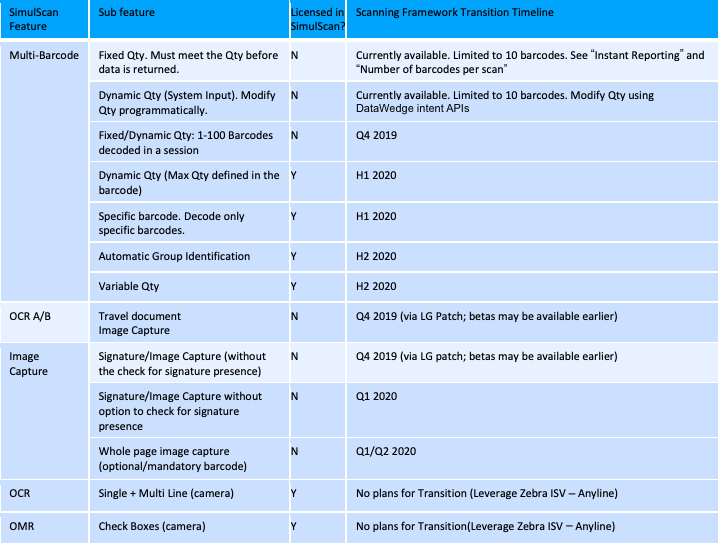
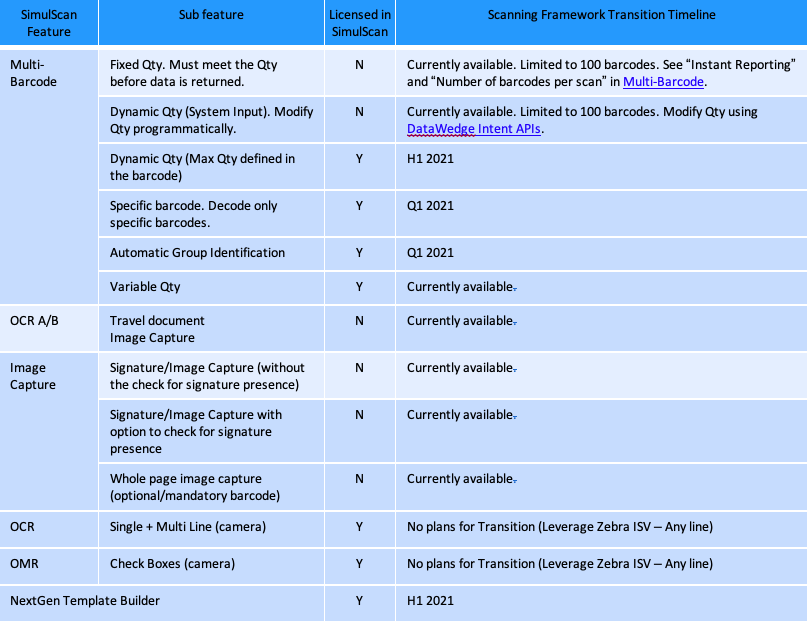
[unplanned] SimulScan 1.1 more alert updates, per eng

diff --git a/simulscan/1-1/guide/alert/index.html b/simulscan/1-1/guide/alert/index.html
@@ -191,16 +191,18 @@
                                 <div class="service-box wow fadeInRight">
                                     <div class="">
 
-                                        <p></p><div class="alert alert-danger alert-dismissible fade in" role="alert"> <button type="button" class="close" data-dismiss="alert" aria-label="Close"><span aria-hidden="true">×</span></button> <h4 id="simulscan-features-being-integrated" class="anchor"><a class="heading-anchor" href="#simulscan-features-being-integrated"><span></span></a>SimulScan Features Being Integrated</h4> <p><b>The most important SimulScan capabilities, including multi-barcode scanning and OCR A/B capture for travel documentation, are being migrated to the internal scanning framework that runs on all Zebra devices</b>. Once complete, capabilities formerly available only through SimulScan will be accessible through DataWedge and Android intent APIs. Therefore, Zebra strongly recommends that partners develop a migration plan to DataWedge for all applications that currently use SimulScan.</p><p><b>Key migration dates</b>:
+                                        <p></p><div class="alert alert-danger alert-dismissible fade in" role="alert"> <button type="button" class="close" data-dismiss="alert" aria-label="Close"><span aria-hidden="true">×</span></button> <h4 id="simulscan-features-being-integrated" class="anchor"><a class="heading-anchor" href="#simulscan-features-being-integrated"><span></span></a>SimulScan Features Being Integrated</h4> <p><b>The most important SimulScan capabilities, including document capture, multi-barcode scanning and OCR A/B capture for travel documentation, are being migrated to the internal scanning framework that runs on all Zebra devices</b>. Once complete, capabilities formerly available only through <u><b>SimulScan will be known as NextGen SimulScan and be accessible through DataWedge and Android intent APIs</b></u>. 
+
+Zebra strongly recommends that partners develop a migration plan to DataWedge for all applications that currently use SimulScan.</p><p><b>Key migration dates</b>:
     </p><ul>
-        <li><b>Dec. 31, 2019</b> - Final day to buy SimulScan licenses</li>
-        <li><b>Dec. 31, 2020</b> - End of support for licensed SimulScan API features</li>
+        <li><b>Dec. 31, 2019</b> - Sale of SimulScan licenses ended</li>
+        <li><b>Dec. 31, 2020</b> - Support for licensed SimulScan API features ends</li>
         <li><b>Device end-of-life</b> - End of support for non-licensed SimulScan API features</li>
     </ul>
 </div>
 
 <blockquote>
-  <p>Zebra strongly recommends that customers and partners develop a plan for migrating to DataWedge using the transitioned SimulScan APIs for all applications that currently use SimulScan. <strong>Some SimulScan features are already transitioned and available for use</strong>. <br><br></p>
+  <p>Zebra strongly recommends that customers and partners develop a plan for migrating to DataWedge using NextGen SimulScan APIs for all applications that currently use SimulScan. <strong>Some SimulScan features are already transitioned and available for use today</strong>. <br></p>
 </blockquote>
 
 <p></p><h4 id="migratedfeaturesavailablenow" class="anchor"><a class="heading-anchor" href="#migratedfeaturesavailablenow"><span></span></a>Migrated features available now:</h4>
@@ -227,11 +229,16 @@
 
 <li><strong><a href="/datawedge/7-5/guide/input/barcode#ocrb">Configure OCR-B</a></strong> decoding (DataWedge 7.5+)</li>
 
-<li><strong><a href="/emdk-for-android/7-5/samples/multibarcode1/">Sample app: Multi-barcode scanning</a></strong> (EMDK for Android 6.8+)</li>
+<li><strong><a href="/datawedge/8-0/guide/input/barcode/#documentcapturetemplate">Document Capture with anchor barcode</a></strong> (DataWedge 8+)</li>
 
-<li><strong><a href="/emdk-for-android/7-5/samples/simulscan/">Sample app: Document capture</a></strong> (EMDK for Android 4.0+)</li></ul>
+<li><strong><a href="">Signature presence checking</a></strong> (DataWedge 8.2+ - coming soon)</li></ul>
 </li>
 </ul>
+
+<!--  removed by eng.
+* **[Sample app: Multi-barcode scanning](/emdk-for-android/7-5/samples/multibarcode1/)** (EMDK for Android 6.8+)
+ * **[Sample app: Document capture](/emdk-for-android/7-5/samples/simulscan/)** (EMDK for Android 4.0+)
+ -->
 
 <blockquote>
   <p><strong>See the <a href="#transitionroadmap">Transition Roadmap</a> for estimated availability of additional features</strong>.</p>
@@ -244,20 +251,11 @@
 <ul>
 <li>All new SimulScan feature requests will be created in the Scanning Framework accessible through DataWedge and intent APIs.</li>
 
-<li>The transitioned SimulScan features will be supported on all Zebra devices with built-in Imager and/or camera running Android 8.x Oreo and higher.</li>
+<li>NextGen SimulScan features will be supported on all Zebra devices with built-in Imager and/or camera running Android 8.x Oreo and higher.</li>
 
-<li>The existing SimulScan APIs and the Template Builder app will no longer be available as of December 31, 2019 (Template Builder is not required for using transitioned SimulScan APIs).</li>
+<li>Template Builder for NextGen SimulScan APIs will be available according to the schedule shown in the table below.</li>
 
 <li>A next-gen version of SimulScan will be part of the Zebra Mobility DNA.</li>
-
-<li>These Zebra SKUs reach end-of-life on Dec. 31, 2019: 
-
-
-<ul>
-<li><code>SIMULSCAN_PERM</code> </li>
-
-<li><code>SIMULSCAN_MB_PERM</code> </li></ul>
-</li>
 
 <li>All multi-barcode features will be included in TC5x, TC7x, TC8x and MC9x devices at no additional cost</li>
 </ul>
@@ -287,38 +285,35 @@ SimulScan currently supports only these devices:
 <p><strong>Q: How do I know which SimulScan features are being transitioned to the Scanning Framework?</strong><br>
 A: See the Transition Roadmap above for a list of features that are planned for transitioning. The table also includes features that are not being transitioned.</p>
 
-<p><strong>Q: Do I need rewrite my existing SimulScan application to use the transitioned APIs?</strong> <br>
+<p><strong>Q: Do I need to rewrite my existing SimulScan application to use the transitioned APIs?</strong> <br>
 A: Yes. Applications must be rewritten to use the SimulScan APIs available in Scanning Framework. The intent APIs provided by DataWedge will make this transition quick and easy. </p>
 
-<p><strong>Q: Do I need a license to use transitioned SimulScan features in Scanning Framework?</strong><br> 
- A: No. Licensing is not required for any of the SimulScan features being transitioned into the Scanning Framework and APIs. </p>
+<p><strong>Q: Do I need a license to use NextGen SimulScan features in Scanning Framework?</strong><br> 
+ A: Maybe. Licensing is not required for any of the SimulScan features being transitioned into the Scanning Framework and APIs for Zebra Enterprise-series devices.  Professional-series devices require purchase of an MDNA Enterprise License to access some NextGen SimulScan features. <a href="/licensing">Learn more</a>. </p>
 
-<p><strong>Q: Will the SimulScan transitioned APIs be supported only on DataWedge? What about Enterprise Browser and EMDK</strong>?<br>
-A: The DataWedge and intent API support are the recommended method of programmatically accessing transitioned SimulScan features. Enterprise Browser provides features to access DataWedge. There are currently no plans to implement the transitioned features in EMDK APIs.</p>
+<p><strong>Q: Will NextGen SimulScan APIs be supported only on DataWedge? What about Enterprise Browser and EMDK</strong>?<br>
+A: DataWedge and intent-API support are the recommended method of programmatically accessing NextGen SimulScan features. Enterprise Browser provides features to access DataWedge. There are currently no plans to implement the transitioned features in EMDK APIs.</p>
 
-<p><strong>Q: What software do I need for using the transitioned SimulScan features to Scanning Framework?</strong><br>
+<p><strong>Q: What software do I need for using NextGen SimulScan features to Scanning Framework?</strong><br>
 A: None. The Scanning Framework is preloaded on all Zebra devices. No additional software is needed.<br></p>
 
-<p><strong>Q: Which devices will the transitioned SimulScan features in Scanning Framework support?</strong><br>
-A: The transitioned SimulScan features will be supported on all Zebra devices with built-in Imager and/or camera running Android 8.x Oreo and higher. Some devices running Oreo and Pie might require application of the latest LifeGuard updates.</p>
+<p><strong>Q: Which devices will NextGen SimulScan features in Scanning Framework support?</strong><br>
+A: NextGen SimulScan features will be supported on all Zebra devices with built-in Imager and/or camera running Android 8.x Oreo and later. Some devices running Oreo and Pie might require application of the latest <a href="https://www.zebra.com/us/en/support-downloads/lifeguard-security.html">LifeGuard updates</a>.</p>
 
 <p><strong>Q: I did not see some of the existing SimulScan features in the Transition Roadmap matrix. Will they ever be supported?</strong><br> 
 A: If an existing SimulScan feature is not listed in the Transition Matrix, currently there is no plan to support it. However, Zebra will consider supporting missing features on a case-by-case basis if a strong business case exists. Please contact your account manager to request support for missing features.</p>
 
-<p><strong>Q: Since the last date to buy licenses for existing SimulScan implementations is December 31, 2019, can I continue to purchase licenses until then?</strong><br>
-A: Yes, but Zebra strongly recommends using the SimulScan features transitioned to Scanning Framework for all new development. Consider moving to the Scanning Framework immediately if a feature is already transitioned. </p>
-
-<p><strong>Q: What are the advantages of using the transitioned SimulScan features in the Scanning Framework over the existing stand-alone SimulScan?</strong><br>
-A: Transitioned SmulScan features in the Scanning Framework will support all Oreo and future devices with built-in camera and imagers. Current SimulScan features support only a handful of devices. Furthermore, SimulScan was not designed to accommodate new and complex features, nor to massively scale. The Scanning Framework was designed for scaling and can more quickly implement new scanning features.   Additionally, the transitioned SimulScan will not require a license. </p>
+<p><strong>Q: Are there advantages to using NextGen SimulScan features in the Scanning Framework over the existing stand-alone SimulScan?</strong><br>
+A: Yes. NextGen SimulScan features in the Scanning Framework will support all Oreo-based and future devices with built-in camera and imagers. Current SimulScan features support only a handful of devices. Further, SimulScan was not designed to accommodate new and complex features, nor to massively scale. The Scanning Framework was designed for scaling and allows for faster implementation of new scanning features.   Additionally, NextGen SimulScan will not require a license for most devices. </p>
 
 <p><strong>Q: Some of the transitioned features in the Scanning Framework are in the roadmap but are not currently not available. How soon can I get a beta?</strong> <br>
-A: Please contact your Zebra sales representative for information about accessing beta features.</p>
+A: Please contact your Zebra sales representative for information about accessing early-release software.</p>
 
-<p><strong>Q: Will the SimulScan Template Builder work with the Transitioned SimulScan?</strong><br>
-A: No. The existing Template Builder tool will not work with the transitioned SimulScan and is not required to make use of the transitioned SimulScan features.</p>
+<p><strong>Q: Does the SimulScan Template Builder work with NextGen SimulScan?</strong><br>
+A: No. The existing Template Builder tool will not work with NextGen SimulScan. A new Template Build compatible with NextGen SimulScan will be available according to the schedule shown in the table above.</p>
 
-<p><strong>Q: When will the SimulScan Template Builder become unavailable?</strong><br>
-A: Access to Template Builder will end on or around December 31, 2019. </p>
+<p><strong>Q: Does the SimulScan Template Builder work with NextGen SimulScan?</strong><br>
+A: No. The Template Builder is no longer available and is not required for using NextGen SimulScan APIs. </p>
 
 <hr>
 
@@ -356,7 +351,7 @@ A: Access to Template Builder will end on or around December 31, 2019. </p>
             <div class="container-fluid">
                 <div class="row">
                     <div class="col-sm-10">
-                        © ZEBRA and the stylized Zebra head are trademarks of Zebra Technologies Corporation, registered in many jurisdictions worldwide. All other trademarks are the property of their respective owners. ©2019 Zebra Technologies Corporation and/or its affiliates. All rights reserved. <a href="https://www.zebra.com/us/en/about-zebra/company-information/legal/terms-of-use.html">Terms &amp; Conditions</a>
+                        © ZEBRA and the stylized Zebra head are trademarks of Zebra Technologies Corp., registered in many jurisdictions worldwide. All other trademarks are the property of their respective owners. ©2020 Zebra Technologies Corp. and/or its affiliates.<br> <a href="https://www.zebra.com/us/en/about-zebra/company-information/legal.html">Legal</a> | <a href="https://www.zebra.com/us/en/about-zebra/company-information/compliance/information-privacy/terms-of-use.html">Terms of Use</a> | <a href="https://www.zebra.com/us/en/about-zebra/company-information/legal/privacy-statement.html">Privacy Policy</a><a href="https://www.zebra.com/us/en/about-zebra/company-information/legal/terms-of-use.html">Terms &amp; Conditions</a>
                     </div>
     <!--                 <div class="col-sm-2">
                         <ul class="social-icons">

diff --git a/simulscan/1-1/guide/about/index.html b/simulscan/1-1/guide/about/index.html
@@ -236,10 +236,10 @@
                                 <div class="service-box wow fadeInRight">
                                     <div class="">
 
-                                        <p></p><div class="alert alert-danger alert-dismissible fade in" role="alert"> <button type="button" class="close" data-dismiss="alert" aria-label="Close"><span aria-hidden="true">×</span></button> <h4 id="important-information-about-simulscan" class="anchor"><a class="heading-anchor" href="#important-information-about-simulscan"><span></span></a>Important information about SimulScan:</h4> <p><b>The most important SimulScan capabilities, including multi-barcode scanning and OCR A/B capture for travel documentation, are being migrated to the internal scanning framework that runs on all Zebra devices</b>. Once complete, capabilities formerly available only through SimulScan will be accessible through DataWedge and Android intent APIs. Therefore, Zebra strongly recommends that partners develop a migration plan to DataWedge for all applications that currently use SimulScan.</p><p><b>Key migration dates</b>:
+                                        <p></p><div class="alert alert-danger alert-dismissible fade in" role="alert"> <button type="button" class="close" data-dismiss="alert" aria-label="Close"><span aria-hidden="true">×</span></button> <h4 id="simulscan-features-being-integrated" class="anchor"><a class="heading-anchor" href="#simulscan-features-being-integrated"><span></span></a>SimulScan Features Being Integrated</h4> <p><b>The most important SimulScan capabilities, including document capture, multi-barcode scanning and OCR A/B capture for travel documentation, are being migrated to the internal scanning framework that runs on all Zebra devices</b>. Once complete, capabilities formerly available only through <u><b>SimulScan will be known as NextGen SimulScan and be accessible through DataWedge and Android intent APIs</b></u>. Therefore, Zebra strongly recommends that partners develop a migration plan to DataWedge for all applications that currently use SimulScan.</p><p><b>Key migration dates</b>:
     </p><ul>
-        <li>Dec. 31, 2019 - Final day to buy SimulScan licenses</li>
-        <li>Dec. 31, 2020 - End of support for licensed SimulScan API features</li>
+        <li>Dec. 31, 2019 - Sale of SimulScan licenses ended</li>
+        <li>Dec. 31, 2020 - Support for licensed SimulScan API features ends</li>
         <li>Device end-of-life - End of support for non-licensed SimulScan API features</li>
         <li>For more information, refer to <b>the full alert</b>:</li>
     </ul>
@@ -378,7 +378,7 @@ In addition, some Fields are designated as "Anchor Elements," which help SimulSc
             <div class="container-fluid">
                 <div class="row">
                     <div class="col-sm-10">
-                        © ZEBRA and the stylized Zebra head are trademarks of Zebra Technologies Corporation, registered in many jurisdictions worldwide. All other trademarks are the property of their respective owners. ©2019 Zebra Technologies Corporation and/or its affiliates. All rights reserved. <a href="https://www.zebra.com/us/en/about-zebra/company-information/legal/terms-of-use.html">Terms &amp; Conditions</a>
+                        © ZEBRA and the stylized Zebra head are trademarks of Zebra Technologies Corp., registered in many jurisdictions worldwide. All other trademarks are the property of their respective owners. ©2020 Zebra Technologies Corp. and/or its affiliates.<br> <a href="https://www.zebra.com/us/en/about-zebra/company-information/legal.html">Legal</a> | <a href="https://www.zebra.com/us/en/about-zebra/company-information/compliance/information-privacy/terms-of-use.html">Terms of Use</a> | <a href="https://www.zebra.com/us/en/about-zebra/company-information/legal/privacy-statement.html">Privacy Policy</a><a href="https://www.zebra.com/us/en/about-zebra/company-information/legal/terms-of-use.html">Terms &amp; Conditions</a>
                     </div>
     <!--                 <div class="col-sm-2">
                         <ul class="social-icons">

diff --git a/simulscan/1-1/guide/templatebuilder/index.html b/simulscan/1-1/guide/templatebuilder/index.html
@@ -1634,7 +1634,7 @@ Convert UPCE1 To UPCA - Enable this to convert UPCE1 decoded data to UPC-A forma
             <div class="container-fluid">
                 <div class="row">
                     <div class="col-sm-10">
-                        © ZEBRA and the stylized Zebra head are trademarks of Zebra Technologies Corporation, registered in many jurisdictions worldwide. All other trademarks are the property of their respective owners. ©2019 Zebra Technologies Corporation and/or its affiliates. All rights reserved. <a href="https://www.zebra.com/us/en/about-zebra/company-information/legal/terms-of-use.html">Terms &amp; Conditions</a>
+                        © ZEBRA and the stylized Zebra head are trademarks of Zebra Technologies Corp., registered in many jurisdictions worldwide. All other trademarks are the property of their respective owners. ©2020 Zebra Technologies Corp. and/or its affiliates.<br> <a href="https://www.zebra.com/us/en/about-zebra/company-information/legal.html">Legal</a> | <a href="https://www.zebra.com/us/en/about-zebra/company-information/compliance/information-privacy/terms-of-use.html">Terms of Use</a> | <a href="https://www.zebra.com/us/en/about-zebra/company-information/legal/privacy-statement.html">Privacy Policy</a><a href="https://www.zebra.com/us/en/about-zebra/company-information/legal/terms-of-use.html">Terms &amp; Conditions</a>
                     </div>
     <!--                 <div class="col-sm-2">
                         <ul class="social-icons">

diff --git a/simulscan/1-1/guide/setup/index.html b/simulscan/1-1/guide/setup/index.html
@@ -474,7 +474,7 @@ Some data-acquisition scenarios call for creation of a type-specific Template, f
             <div class="container-fluid">
                 <div class="row">
                     <div class="col-sm-10">
-                        © ZEBRA and the stylized Zebra head are trademarks of Zebra Technologies Corporation, registered in many jurisdictions worldwide. All other trademarks are the property of their respective owners. ©2019 Zebra Technologies Corporation and/or its affiliates. All rights reserved. <a href="https://www.zebra.com/us/en/about-zebra/company-information/legal/terms-of-use.html">Terms &amp; Conditions</a>
+                        © ZEBRA and the stylized Zebra head are trademarks of Zebra Technologies Corp., registered in many jurisdictions worldwide. All other trademarks are the property of their respective owners. ©2020 Zebra Technologies Corp. and/or its affiliates.<br> <a href="https://www.zebra.com/us/en/about-zebra/company-information/legal.html">Legal</a> | <a href="https://www.zebra.com/us/en/about-zebra/company-information/compliance/information-privacy/terms-of-use.html">Terms of Use</a> | <a href="https://www.zebra.com/us/en/about-zebra/company-information/legal/privacy-statement.html">Privacy Policy</a><a href="https://www.zebra.com/us/en/about-zebra/company-information/legal/terms-of-use.html">Terms &amp; Conditions</a>
                     </div>
     <!--                 <div class="col-sm-2">
                         <ul class="social-icons">

diff --git a/simulscan/1-1/guide/license/index.html b/simulscan/1-1/guide/license/index.html
@@ -490,7 +490,7 @@ Both license types can be applied using either of the methods below.
             <div class="container-fluid">
                 <div class="row">
                     <div class="col-sm-10">
-                        © ZEBRA and the stylized Zebra head are trademarks of Zebra Technologies Corporation, registered in many jurisdictions worldwide. All other trademarks are the property of their respective owners. ©2019 Zebra Technologies Corporation and/or its affiliates. All rights reserved. <a href="https://www.zebra.com/us/en/about-zebra/company-information/legal/terms-of-use.html">Terms &amp; Conditions</a>
+                        © ZEBRA and the stylized Zebra head are trademarks of Zebra Technologies Corp., registered in many jurisdictions worldwide. All other trademarks are the property of their respective owners. ©2020 Zebra Technologies Corp. and/or its affiliates.<br> <a href="https://www.zebra.com/us/en/about-zebra/company-information/legal.html">Legal</a> | <a href="https://www.zebra.com/us/en/about-zebra/company-information/compliance/information-privacy/terms-of-use.html">Terms of Use</a> | <a href="https://www.zebra.com/us/en/about-zebra/company-information/legal/privacy-statement.html">Privacy Policy</a><a href="https://www.zebra.com/us/en/about-zebra/company-information/legal/terms-of-use.html">Terms &amp; Conditions</a>
                     </div>
     <!--                 <div class="col-sm-2">
                         <ul class="social-icons">

diff --git a/simulscan/1-1/guide/demo/index.html b/simulscan/1-1/guide/demo/index.html
@@ -477,7 +477,7 @@ _**Click image to enlarge**_.
             <div class="container-fluid">
                 <div class="row">
                     <div class="col-sm-10">
-                        © ZEBRA and the stylized Zebra head are trademarks of Zebra Technologies Corporation, registered in many jurisdictions worldwide. All other trademarks are the property of their respective owners. ©2019 Zebra Technologies Corporation and/or its affiliates. All rights reserved. <a href="https://www.zebra.com/us/en/about-zebra/company-information/legal/terms-of-use.html">Terms &amp; Conditions</a>
+                        © ZEBRA and the stylized Zebra head are trademarks of Zebra Technologies Corp., registered in many jurisdictions worldwide. All other trademarks are the property of their respective owners. ©2020 Zebra Technologies Corp. and/or its affiliates.<br> <a href="https://www.zebra.com/us/en/about-zebra/company-information/legal.html">Legal</a> | <a href="https://www.zebra.com/us/en/about-zebra/company-information/compliance/information-privacy/terms-of-use.html">Terms of Use</a> | <a href="https://www.zebra.com/us/en/about-zebra/company-information/legal/privacy-statement.html">Privacy Policy</a><a href="https://www.zebra.com/us/en/about-zebra/company-information/legal/terms-of-use.html">Terms &amp; Conditions</a>
                     </div>
     <!--                 <div class="col-sm-2">
                         <ul class="social-icons">

diff --git a/simulscan/1-1/api/index.html b/simulscan/1-1/api/index.html
@@ -312,7 +312,7 @@
             <div class="container-fluid">
                 <div class="row">
                     <div class="col-sm-10">
-                        © ZEBRA and the stylized Zebra head are trademarks of Zebra Technologies Corporation, registered in many jurisdictions worldwide. All other trademarks are the property of their respective owners. ©2019 Zebra Technologies Corporation and/or its affiliates. All rights reserved. <a href="https://www.zebra.com/us/en/about-zebra/company-information/legal/terms-of-use.html">Terms &amp; Conditions</a>
+                        © ZEBRA and the stylized Zebra head are trademarks of Zebra Technologies Corp., registered in many jurisdictions worldwide. All other trademarks are the property of their respective owners. ©2020 Zebra Technologies Corp. and/or its affiliates.<br> <a href="https://www.zebra.com/us/en/about-zebra/company-information/legal.html">Legal</a> | <a href="https://www.zebra.com/us/en/about-zebra/company-information/compliance/information-privacy/terms-of-use.html">Terms of Use</a> | <a href="https://www.zebra.com/us/en/about-zebra/company-information/legal/privacy-statement.html">Privacy Policy</a><a href="https://www.zebra.com/us/en/about-zebra/company-information/legal/terms-of-use.html">Terms &amp; Conditions</a>
                     </div>
     <!--                 <div class="col-sm-2">
                         <ul class="social-icons">

diff --git a/simulscan/1-1/guide/glossary/index.html b/simulscan/1-1/guide/glossary/index.html
@@ -404,7 +404,7 @@
             <div class="container-fluid">
                 <div class="row">
                     <div class="col-sm-10">
-                        © ZEBRA and the stylized Zebra head are trademarks of Zebra Technologies Corporation, registered in many jurisdictions worldwide. All other trademarks are the property of their respective owners. ©2019 Zebra Technologies Corporation and/or its affiliates. All rights reserved. <a href="https://www.zebra.com/us/en/about-zebra/company-information/legal/terms-of-use.html">Terms &amp; Conditions</a>
+                        © ZEBRA and the stylized Zebra head are trademarks of Zebra Technologies Corp., registered in many jurisdictions worldwide. All other trademarks are the property of their respective owners. ©2020 Zebra Technologies Corp. and/or its affiliates.<br> <a href="https://www.zebra.com/us/en/about-zebra/company-information/legal.html">Legal</a> | <a href="https://www.zebra.com/us/en/about-zebra/company-information/compliance/information-privacy/terms-of-use.html">Terms of Use</a> | <a href="https://www.zebra.com/us/en/about-zebra/company-information/legal/privacy-statement.html">Privacy Policy</a><a href="https://www.zebra.com/us/en/about-zebra/company-information/legal/terms-of-use.html">Terms &amp; Conditions</a>
                     </div>
     <!--                 <div class="col-sm-2">
                         <ul class="social-icons">

diff --git a/simulscan/1-1/guide/templates/auto/index.html b/simulscan/1-1/guide/templates/auto/index.html
@@ -327,7 +327,7 @@
             <div class="container-fluid">
                 <div class="row">
                     <div class="col-sm-10">
-                        © ZEBRA and the stylized Zebra head are trademarks of Zebra Technologies Corporation, registered in many jurisdictions worldwide. All other trademarks are the property of their respective owners. ©2019 Zebra Technologies Corporation and/or its affiliates. All rights reserved. <a href="https://www.zebra.com/us/en/about-zebra/company-information/legal/terms-of-use.html">Terms &amp; Conditions</a>
+                        © ZEBRA and the stylized Zebra head are trademarks of Zebra Technologies Corp., registered in many jurisdictions worldwide. All other trademarks are the property of their respective owners. ©2020 Zebra Technologies Corp. and/or its affiliates.<br> <a href="https://www.zebra.com/us/en/about-zebra/company-information/legal.html">Legal</a> | <a href="https://www.zebra.com/us/en/about-zebra/company-information/compliance/information-privacy/terms-of-use.html">Terms of Use</a> | <a href="https://www.zebra.com/us/en/about-zebra/company-information/legal/privacy-statement.html">Privacy Policy</a><a href="https://www.zebra.com/us/en/about-zebra/company-information/legal/terms-of-use.html">Terms &amp; Conditions</a>
                     </div>
     <!--                 <div class="col-sm-2">
                         <ul class="social-icons">

diff --git a/simulscan/1-1/guide/templates/index.html b/simulscan/1-1/guide/templates/index.html
@@ -189,7 +189,7 @@
             <div class="container-fluid">
                 <div class="row">
                     <div class="col-sm-10">
-                        © ZEBRA and the stylized Zebra head are trademarks of Zebra Technologies Corporation, registered in many jurisdictions worldwide. All other trademarks are the property of their respective owners. ©2019 Zebra Technologies Corporation and/or its affiliates. All rights reserved. <a href="https://www.zebra.com/us/en/about-zebra/company-information/legal/terms-of-use.html">Terms &amp; Conditions</a>
+                        © ZEBRA and the stylized Zebra head are trademarks of Zebra Technologies Corp., registered in many jurisdictions worldwide. All other trademarks are the property of their respective owners. ©2020 Zebra Technologies Corp. and/or its affiliates.<br> <a href="https://www.zebra.com/us/en/about-zebra/company-information/legal.html">Legal</a> | <a href="https://www.zebra.com/us/en/about-zebra/company-information/compliance/information-privacy/terms-of-use.html">Terms of Use</a> | <a href="https://www.zebra.com/us/en/about-zebra/company-information/legal/privacy-statement.html">Privacy Policy</a><a href="https://www.zebra.com/us/en/about-zebra/company-information/legal/terms-of-use.html">Terms &amp; Conditions</a>
                     </div>
     <!--                 <div class="col-sm-2">
                         <ul class="social-icons">

diff --git a/simulscan/1-1/index.html b/simulscan/1-1/index.html
@@ -182,7 +182,7 @@
             <div class="container-fluid">
                 <div class="row">
                     <div class="col-sm-10">
-                        © ZEBRA and the stylized Zebra head are trademarks of Zebra Technologies Corporation, registered in many jurisdictions worldwide. All other trademarks are the property of their respective owners. ©2019 Zebra Technologies Corporation and/or its affiliates. All rights reserved. <a href="https://www.zebra.com/us/en/about-zebra/company-information/legal/terms-of-use.html">Terms &amp; Conditions</a>
+                        © ZEBRA and the stylized Zebra head are trademarks of Zebra Technologies Corp., registered in many jurisdictions worldwide. All other trademarks are the property of their respective owners. ©2020 Zebra Technologies Corp. and/or its affiliates.<br> <a href="https://www.zebra.com/us/en/about-zebra/company-information/legal.html">Legal</a> | <a href="https://www.zebra.com/us/en/about-zebra/company-information/compliance/information-privacy/terms-of-use.html">Terms of Use</a> | <a href="https://www.zebra.com/us/en/about-zebra/company-information/legal/privacy-statement.html">Privacy Policy</a><a href="https://www.zebra.com/us/en/about-zebra/company-information/legal/terms-of-use.html">Terms &amp; Conditions</a>
                     </div>
     <!--                 <div class="col-sm-2">
                         <ul class="social-icons">

diff --git a/simulscan/1-1/search/index.html b/simulscan/1-1/search/index.html
@@ -304,7 +304,7 @@
             <div class="container-fluid">
                 <div class="row">
                     <div class="col-sm-10">
-                        © ZEBRA and the stylized Zebra head are trademarks of Zebra Technologies Corporation, registered in many jurisdictions worldwide. All other trademarks are the property of their respective owners. ©2019 Zebra Technologies Corporation and/or its affiliates. All rights reserved. <a href="https://www.zebra.com/us/en/about-zebra/company-information/legal/terms-of-use.html">Terms &amp; Conditions</a>
+                        © ZEBRA and the stylized Zebra head are trademarks of Zebra Technologies Corp., registered in many jurisdictions worldwide. All other trademarks are the property of their respective owners. ©2020 Zebra Technologies Corp. and/or its affiliates.<br> <a href="https://www.zebra.com/us/en/about-zebra/company-information/legal.html">Legal</a> | <a href="https://www.zebra.com/us/en/about-zebra/company-information/compliance/information-privacy/terms-of-use.html">Terms of Use</a> | <a href="https://www.zebra.com/us/en/about-zebra/company-information/legal/privacy-statement.html">Privacy Policy</a><a href="https://www.zebra.com/us/en/about-zebra/company-information/legal/terms-of-use.html">Terms &amp; Conditions</a>
                     </div>
     <!--                 <div class="col-sm-2">
                         <ul class="social-icons">
